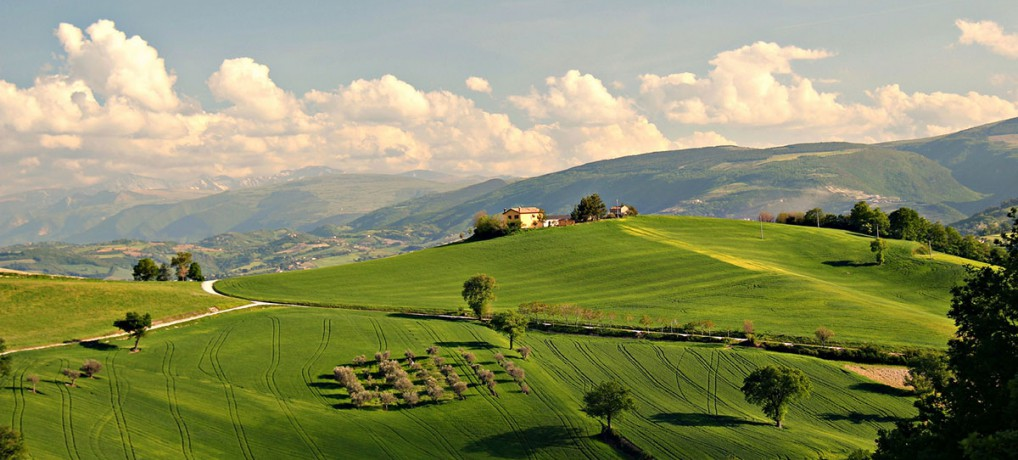
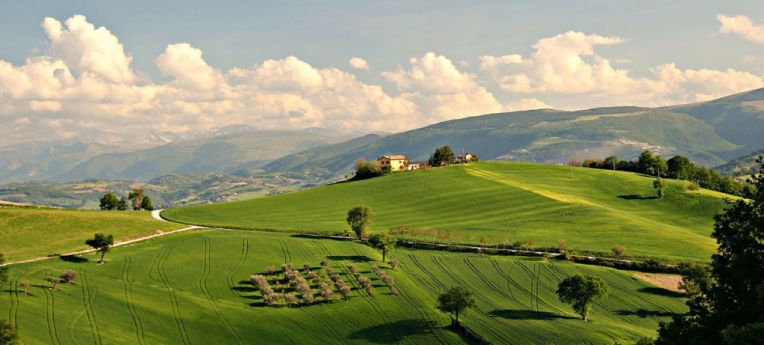
optimized images, changed above-the-fold css-js

diff --git a/layouts/partials/footer_js.html b/layouts/partials/footer_js.html
@@ -17,3 +17,41 @@ MathJax.Hub.Config({
 </script>
 <script src="https://cdn.mathjax.org/mathjax/latest/MathJax.js?config=TeX-AMS-MML_HTMLorMML"></script>
 {{ end }}
+<script type='text/javascript' src="{{ .Site.BaseURL }}js/jquery.js"></script>
+<script type='text/javascript' src="{{ .Site.BaseURL }}js/jquery-migrate.min.js"></script>
+<script type='text/javascript' src="{{ .Site.BaseURL }}js/functions.min.js"></script>
+<!-- <script type='text/javascript' src="{{ .Site.BaseURL }}js/admin-bar.min.js"></script> -->
+<script type='text/javascript' src="{{ .Site.BaseURL }}js/jquery.cycle.all.min.js"></script>
+<script type='text/javascript'>
+  /* <![CDATA[ */
+var travelify_slider_value = {"transition_effect":"fade","transition_delay":"4000","transition_duration":"1000"};
+/* ]]> */
+</script>
+<script type='text/javascript' src="{{ .Site.BaseURL }}js/slider-settings.min.js"></script>
+<script type='text/javascript' src="{{ .Site.BaseURL }}js/wp-embed.min.js"></script>
+<link rel='stylesheet' id='font-awesome-css'  href="{{ .Site.BaseURL }}css/font-awesome.min.css" type='text/css' media='all' />
+<!--[if lte IE 8]>
+    <script type="text/javascript">
+      document.body.className = document.body.className.replace( /(^|\s)(no-)?customize-support(?=\s|$)/, '' ) + ' no-customize-support';
+    </script>
+    <![endif]-->
+<!--[if gte IE 9]><!-->
+    <script type="text/javascript">
+      (function() {
+      var request, b = document.body, c = 'className', cs = 'customize-support', rcs = new RegExp('(^|\\s+)(no-)?'+cs+'(\\s+|$)');
+      
+						request = true;
+      
+      b[c] = b[c].replace( rcs, ' ' );
+      // The customizer requires postMessage and CORS (if the site is cross domain)
+      b[c] += ( window.postMessage && request ? ' ' : ' no-' ) + cs;
+      }());
+		</script>
+    <!--<![endif]-->
+<link rel="apple-touch-icon" href="{{ .Site.BaseURL }}apple-touch-icon.png" />
+<link rel="stylesheet" href="{{ "fancybox/jquery.fancybox.css" | absURL }}">
+<!-- <link rel='stylesheet' id='admin-bar-css'  href="/css/admin-bar.min.css" type='text/css' media='all' /> -->
+<link rel='stylesheet' id='travelify_style-css'  href="{{ .Site.BaseURL }}css/style.css" type='text/css' media='all' />
+<!-- <link rel='stylesheet' id='travelify_style-css'  href="{{ .Site.BaseURL }}css/jetpack.css" type='text/css' media='all' /> -->
+<link rel='stylesheet' id='google_font_ubuntu-css'  href="//fonts.googleapis.com/css?family=Ubuntu" type='text/css' media='all' />
+<!-- <link rel='stylesheet' id='dashicons-css'  href="{{ .Site.BaseURL }}css/dashicons.min.css" type='text/css' media='all' /> -->

diff --git a/layouts/partials/footer.html b/layouts/partials/footer.html
@@ -18,43 +18,5 @@
   </div>
 </footer>
 </div><!-- .wrapper -->
-		<link rel='stylesheet' id='dashicons-css'  href="{{ .Site.BaseURL }}css/dashicons.min.css" type='text/css' media='all' />
-		<link rel='stylesheet' id='font-awesome-css'  href="{{ .Site.BaseURL }}css/font-awesome.min.css" type='text/css' media='all' />
-		<link rel="apple-touch-icon" href="{{ .Site.BaseURL }}apple-touch-icon.png" />
-		<link rel="stylesheet" href="{{ "fancybox/jquery.fancybox.css" | absURL }}">
-<link rel='stylesheet' id='admin-bar-css'  href="/css/admin-bar.min.css" type='text/css' media='all' />
-<link rel='stylesheet' id='travelify_style-css'  href="{{ .Site.BaseURL }}css/style.css" type='text/css' media='all' />
-<link rel='stylesheet' id='travelify_style-css'  href="{{ .Site.BaseURL }}css/jetpack.css" type='text/css' media='all' />
-<link rel='stylesheet' id='google_font_ubuntu-css'  href="//fonts.googleapis.com/css?family=Ubuntu" type='text/css' media='all' />
-<script type='text/javascript' src="{{ .Site.BaseURL }}js/jquery.js"></script>
-<script type='text/javascript' src="{{ .Site.BaseURL }}js/jquery-migrate.min.js"></script>
-<script type='text/javascript' src="{{ .Site.BaseURL }}js/functions.min.js"></script>
-<script type='text/javascript' src="{{ .Site.BaseURL }}js/admin-bar.min.js"></script>
-<script type='text/javascript' src="{{ .Site.BaseURL }}js/jquery.cycle.all.min.js"></script>
-<script type='text/javascript'>
-  /* <![CDATA[ */
-var travelify_slider_value = {"transition_effect":"fade","transition_delay":"4000","transition_duration":"1000"};
-/* ]]> */
-</script>
-<script type='text/javascript' src="{{ .Site.BaseURL }}js/slider-settings.min.js"></script>
-<script type='text/javascript' src="{{ .Site.BaseURL }}js/wp-embed.min.js"></script>
-<!--[if lte IE 8]>
-    <script type="text/javascript">
-      document.body.className = document.body.className.replace( /(^|\s)(no-)?customize-support(?=\s|$)/, '' ) + ' no-customize-support';
-    </script>
-    <![endif]-->
-<!--[if gte IE 9]><!-->
-    <script type="text/javascript">
-      (function() {
-      var request, b = document.body, c = 'className', cs = 'customize-support', rcs = new RegExp('(^|\\s+)(no-)?'+cs+'(\\s+|$)');
-      
-						request = true;
-      
-      b[c] = b[c].replace( rcs, ' ' );
-      // The customizer requires postMessage and CORS (if the site is cross domain)
-      b[c] += ( window.postMessage && request ? ' ' : ' no-' ) + cs;
-      }());
-		</script>
-    <!--<![endif]-->
 
-    {{ partial "footer_js" . }}
+{{ partial "footer_js" . }}
